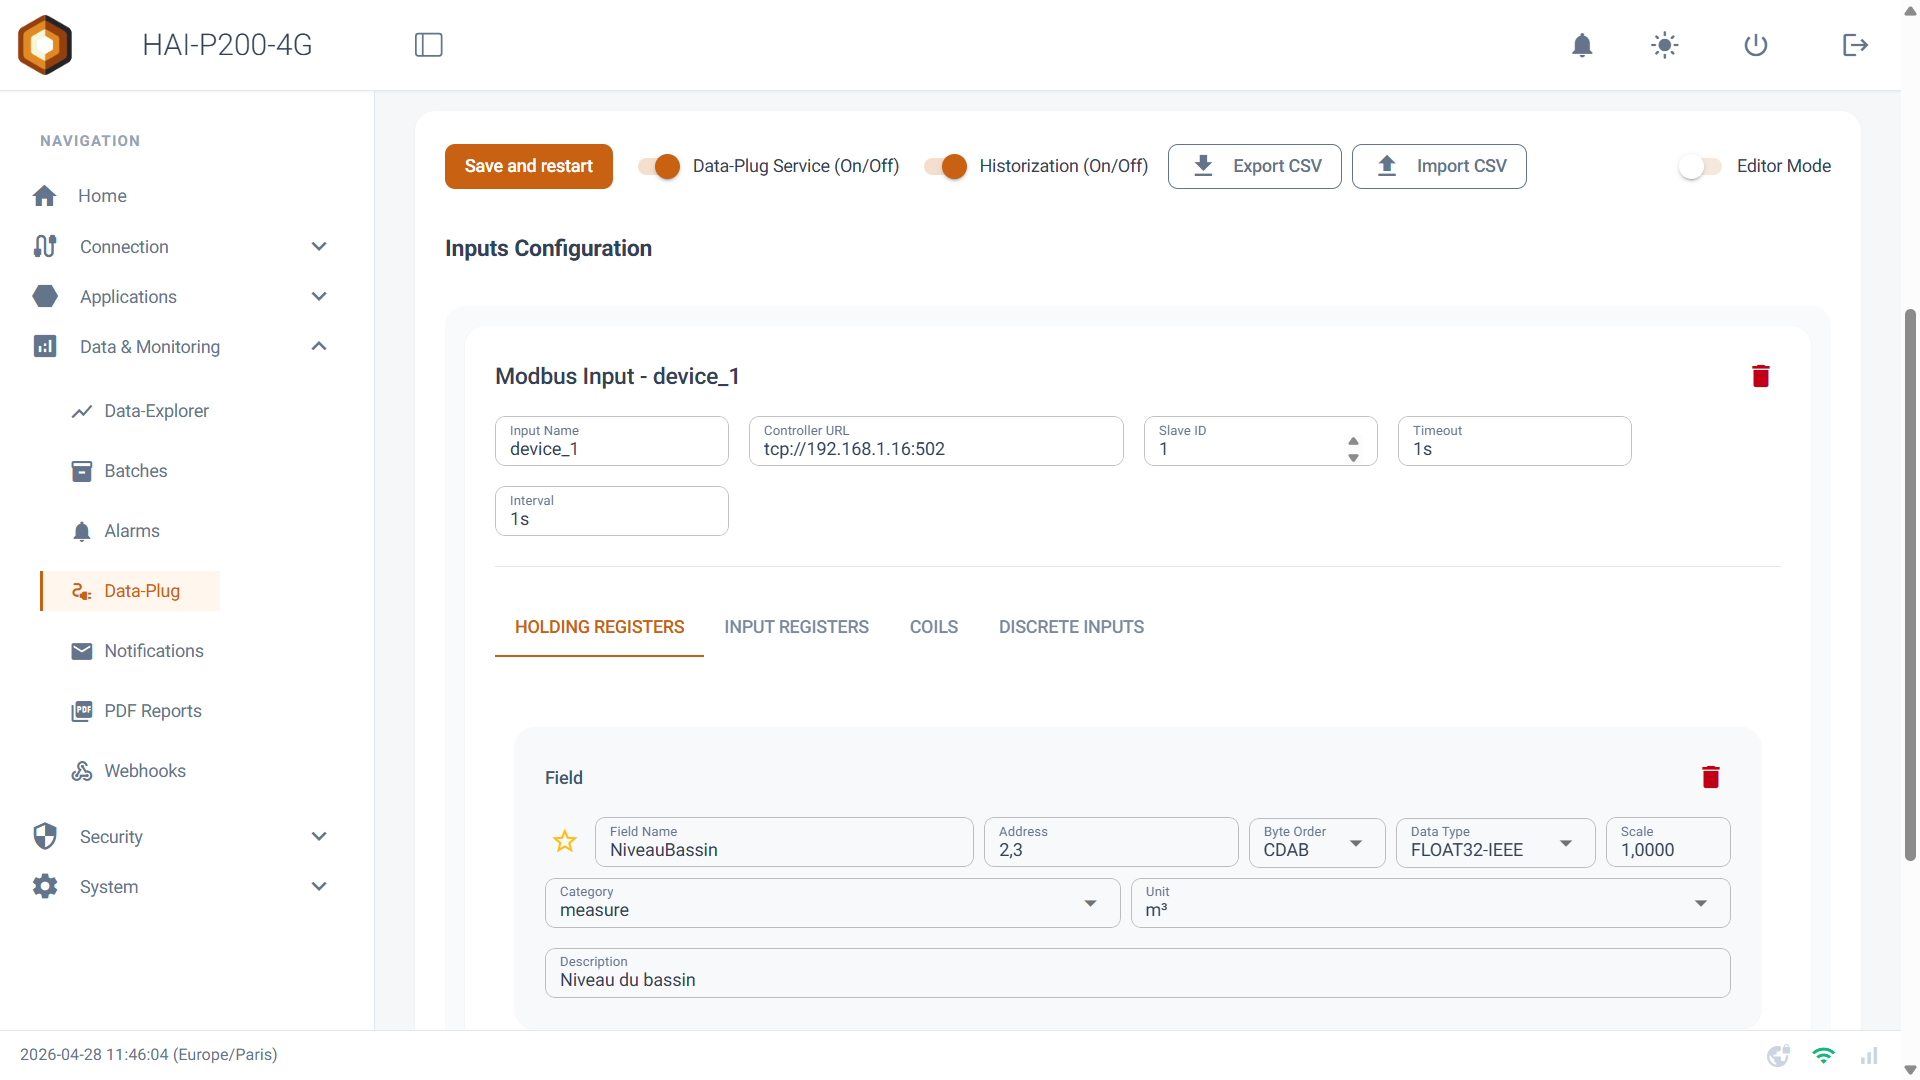
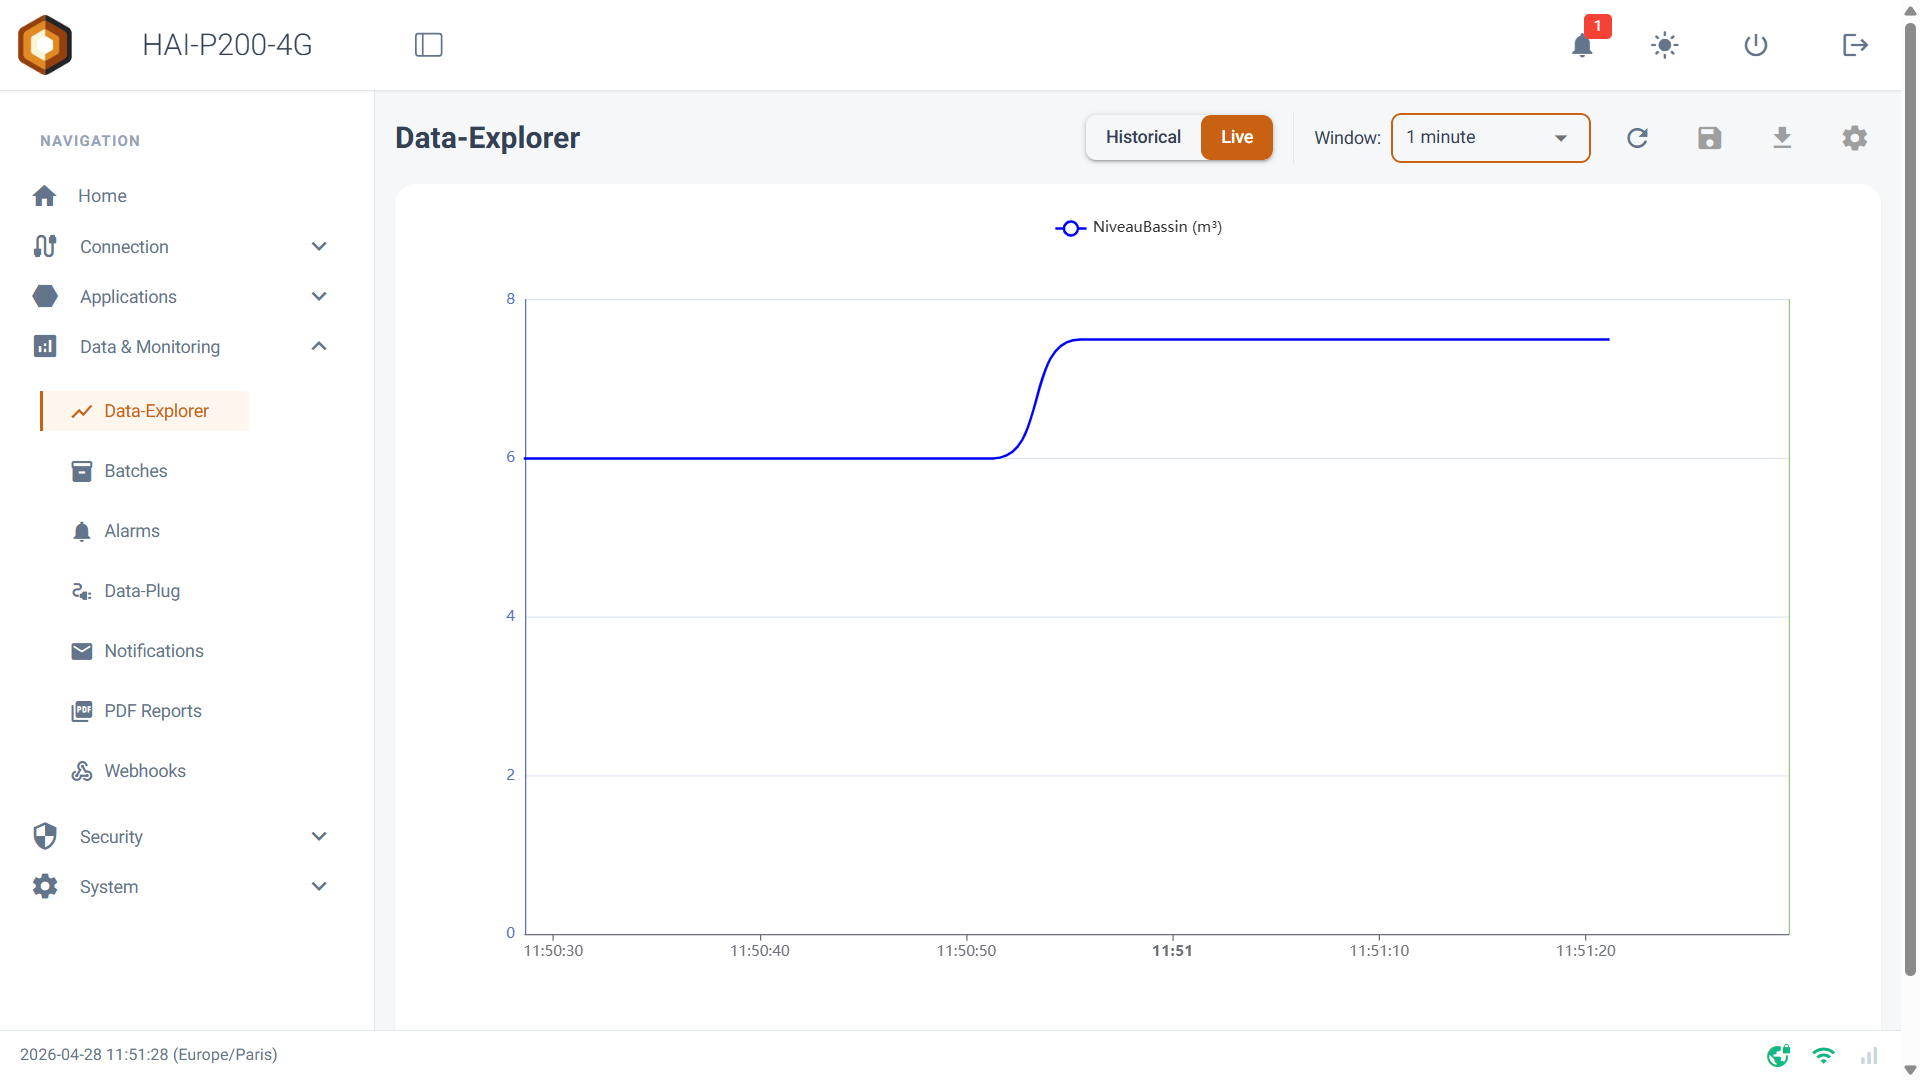
Completer le commit precedent, reste incomplet
Le commit 454eb33 ne portait que le renommage de la capture de connexion :
la commande d'ajout listait un fichier deja supprime, ce qui l'a fait
echouer en entier sans que je le remarque. Voici le contenu annonce.

Le guide de telemaintenance devient quick-start-remote-access et passe de
protocols/ vers getting-started/ : la telemaintenance est une mise en
route, pas un protocole d'acquisition. Description redigee, textes
alternatifs ecrits d'apres les captures, emojis decoratifs isoles retires,
l'astuce en :::tip et l'avertissement sur l'approbation du sous-reseau
Tailscale en :::caution — c'est le piege ou l'on perd une demi-heure.
Version anglaise ajoutee.

Les images du guide monitoring sont renumerotees pour combler le trou
laisse par la capture partie dans src/assets/.

Le script d'import verifie desormais l'existence de la page avant de
copier les images, au lieu de laisser des orphelines quand il refuse
d'ecrire.

Verifie apres build : 14 pages, 92 liens internes, aucun casse, et la
capture de connexion mutualisee entre les quatre pages.

diff --git a/src/content/docs/getting-started/quick-start-remote-access.md b/src/content/docs/getting-started/quick-start-remote-access.md
@@ -1,0 +1,90 @@
+---
+title: "Démarrage rapide pour la télémaintenance"
+description: Transformer un HAI-P200-4G en passerelle d'accès distant sécurisée — accès Internet, tunnel VPN Tailscale et prise en main de vos automates.
+sidebar:
+  order: 2
+---
+
+Bienvenue sur votre contrôleur **HAI-P200-4G** propulsé par **HAI-OS**. Ce guide a pour but de vous accompagner pas à pas pour transformer votre boîtier en une passerelle d'accès distant sécurisée (VPN). En quelques minutes, vous pourrez vous connecter à distance à vos équipements industriels (automates, IHM) comme si vous étiez sur place avec un câble.
+
+## Étape 1 : Première connexion
+
+Une fois votre contrôleur HAI-P200-4G raccordé à l'alimentation, vous devez vous y connecter.
+
+Par défaut, le port **Ethernet 1 (eth1)** du contrôleur, côté réseau machine, est préconfiguré avec l'adresse IP statique **192.168.1.16** et le masque de sous-réseau **255.255.255.0**.
+
+1.  Connectez votre PC de configuration directement au port **Ethernet 1** du contrôleur à l'aide d'un câble réseau _(assurez-vous que la carte réseau de votre PC est configurée sur le même sous-réseau, par exemple avec l'IP 192.168.1.5)_.
+
+2.  Ouvrez un navigateur web et saisissez l'adresse **https://192.168.1.16** dans la barre d'adresse.
+
+3.  Sur la page de connexion, entrez les identifiants par défaut :
+
+    - **Username** : admin
+
+    - **Password** : hai1@
+
+4.  Le boîtier ouvre un écran de configuration et vous demande de définir votre mot de passe administrateur.
+
+![Page de connexion de HAI-OS, avec les champs Username et Password et le bouton Log in](../../../assets/hai-os-login.png)
+
+## Étape 2 : Fournir un accès Internet au boîtier
+
+Pour que le contrôleur puisse établir le tunnel VPN vers l'extérieur, il a impérativement besoin d'une connexion à Internet.
+
+Dépliez le menu **Connection** dans la barre latérale gauche et choisissez votre moyen de communication vers l'extérieur :
+
+- **Ethernet (eth0)** : configurez ce port, côté usine ou entreprise, en mode DHCP ou avec une IP statique fournie par le service informatique.
+
+- **WiFi** : activez la radio WiFi, scannez les réseaux environnants et connectez-vous au point d'accès de l'usine.
+
+- **4G Modem** : si vous disposez d'une carte SIM, renseignez l'APN et le code PIN pour activer la liaison cellulaire indépendante.
+
+:::tip[Astuce]
+Le pied de page de l'interface affiche des icônes d'état en temps réel pour le WiFi, le modem 4G et le VPN. Si l'icône du réseau que vous avez configuré devient verte — ou orange pour la 4G — l'accès à Internet est opérationnel.
+:::
+
+## Étape 3 : Configuration du tunnel VPN (Tailscale)
+
+Maintenant que le boîtier a accès à Internet, nous allons le relier à votre réseau privé virtuel pour y accéder à distance.
+
+1.  Allez dans le menu **Connection > VPN Tailscale**.
+
+2.  Cochez la case **Activate Tailscale VPN**.
+
+3.  **Key** : renseignez la clé d'authentification générée depuis votre console d'administration Tailscale — elle commence généralement par `tskey-auth-` — puis cliquez sur **Apply**. Le statut passe à **Connected** et le champ _Key_ disparaît : le boîtier est enrôlé.
+
+4.  Le sélecteur **Mode** apparaît alors, positionné sur **Subnet Route**. C'est le mode à conserver pour la télémaintenance. _(L'autre mode, Port Forwarding, n'expose qu'un équipement sur un port précis ; voir l'article VPN Tailscale.)_
+
+5.  **Subnet Route Configuration** : saisissez le réseau de vos machines, celui du port **eth1**, que vous souhaitez rendre accessible à distance. Indiquez **l'adresse du réseau**, pas celle d'un équipement : si votre automate est en 192.168.1.50, saisissez `192.168.1.0/24`.
+
+6.  Cliquez de nouveau sur **Apply**. C'est ce second clic qui annonce la route.
+
+:::caution[Le réseau annoncé doit être approuvé côté Tailscale]
+Dans votre console d'administration, ouvrez la machine, section **Subnets**, cliquez **Edit**, cochez le réseau et enregistrez.
+
+Tant que l'approbation n'est pas faite, le boîtier affiche **Connected** mais aucun trafic ne passe vers vos machines.
+:::
+
+![Écran VPN Tailscale : statut Connected, case Activate Tailscale VPN cochée et route de sous-réseau 192.168.1.0/24](./quick-start-remote-access-1.png)
+
+Le statut passe à **Connected**, en vert. Le routeur du boîtier propage désormais les communications de votre réseau distant directement vers le réseau de votre machine.
+
+## Étape 4 : Prise en main de vos équipements
+
+La configuration côté machine est terminée. Désormais, depuis votre bureau ou en déplacement :
+
+1.  Assurez-vous que l'application client Tailscale est active sur votre PC de travail, et connectée au même compte.
+
+2.  Ouvrez votre logiciel de programmation habituel (TIA Portal, CODESYS, SoMachine…) ou un navigateur web.
+
+3.  Entrez **directement l'adresse IP locale** de votre automate ou IHM (ex. 192.168.1.50).
+
+La communication s'établit de manière transparente et chiffrée, de bout en bout.
+
+## Félicitations
+
+Votre contrôleur HAI-P200-4G est opérationnel et sécurisé. Pour aller plus loin, consultez les documentations dédiées pour :
+
+- **déclarer des règles de pare-feu** afin de limiter strictement qui peut communiquer avec la machine ;
+
+- **activer le partage de connexion** si votre automate a lui-même besoin d'accéder à Internet, pour se mettre à l'heure ou communiquer avec un service cloud.

diff --git a/src/content/docs/en/getting-started/quick-start-remote-access.md b/src/content/docs/en/getting-started/quick-start-remote-access.md
@@ -1,0 +1,90 @@
+---
+title: "Remote access quick start"
+description: Turn a HAI-P200-4G into a secure remote-access gateway — Internet uplink, Tailscale VPN tunnel and reaching your PLCs from anywhere.
+sidebar:
+  order: 2
+---
+
+Welcome to your **HAI-P200-4G** controller, powered by **HAI-OS**. This guide walks you through turning the gateway into a secure remote-access bridge (VPN). Within minutes you will be able to reach your industrial equipment — PLCs, HMIs — from anywhere, as if you were on site with a cable.
+
+## Step 1: First connection
+
+Once your HAI-P200-4G controller is connected to power, you need to reach it.
+
+By default, the controller's **Ethernet 1 (eth1)** port — the machine-network side — is preconfigured with the static IP address **192.168.1.16** and the subnet mask **255.255.255.0**.
+
+1.  Connect your configuration PC directly to the controller's **Ethernet 1** port with a network cable _(make sure your PC's network adapter is set to the same subnet — for example IP 192.168.1.5)_.
+
+2.  Open a web browser and enter the address **https://192.168.1.16**.
+
+3.  On the login page, enter the default credentials:
+
+    - **Username**: admin
+
+    - **Password**: hai1@
+
+4.  The gateway opens a configuration screen and asks you to set your administrator password.
+
+![HAI-OS login page, with the Username and Password fields and the Log in button](../../../../assets/hai-os-login.png)
+
+## Step 2: Giving the gateway Internet access
+
+To establish the outbound VPN tunnel, the controller needs an Internet connection.
+
+Expand the **Connection** menu in the left sidebar and pick how it reaches the outside world:
+
+- **Ethernet (eth0)**: configure this port — the plant or corporate side — in DHCP mode, or with a static IP provided by the IT department.
+
+- **WiFi**: turn on the WiFi radio, scan for nearby networks and connect to the plant access point.
+
+- **4G Modem**: if you have a SIM card, enter the APN and PIN code to bring up an independent cellular link.
+
+:::tip[Tip]
+The interface footer shows live status icons for WiFi, the 4G modem and the VPN. When the icon for the link you configured turns green — or orange for 4G — Internet access is up.
+:::
+
+## Step 3: Setting up the VPN tunnel (Tailscale)
+
+Now that the gateway has Internet access, let's attach it to your private network so you can reach it remotely.
+
+1.  Go to **Connection > VPN Tailscale**.
+
+2.  Tick the **Activate Tailscale VPN** checkbox.
+
+3.  **Key**: enter the authentication key generated from your Tailscale admin console — it usually starts with `tskey-auth-` — then click **Apply**. The status turns to **Connected** and the _Key_ field disappears: the gateway is enrolled.
+
+4.  The **Mode** selector then appears, set to **Subnet Route**. Keep that mode for remote maintenance. _(The other mode, Port Forwarding, exposes a single device on a specific port; see the Tailscale VPN article.)_
+
+5.  **Subnet Route Configuration**: enter the machine network — the one on the **eth1** port — that you want to make reachable remotely. Give **the network address**, not a device address: if your PLC is at 192.168.1.50, enter `192.168.1.0/24`.
+
+6.  Click **Apply** again. It is this second click that advertises the route.
+
+:::caution[The advertised subnet must be approved on the Tailscale side]
+In your admin console, open the machine, go to the **Subnets** section, click **Edit**, tick the network and save.
+
+Until that approval is done, the gateway reports **Connected** but no traffic reaches your machines.
+:::
+
+![Tailscale VPN screen: status Connected, Activate Tailscale VPN ticked and subnet route 192.168.1.0/24](../../getting-started/quick-start-remote-access-1.png)
+
+The status turns to **Connected**, in green. The gateway's router now forwards traffic from your remote network straight through to your machine network.
+
+## Step 4: Reaching your equipment
+
+The machine-side setup is done. From now on, from your desk or on the road:
+
+1.  Make sure the Tailscale client application is running on your work PC and signed in to the same account.
+
+2.  Open your usual programming software (TIA Portal, CODESYS, SoMachine…) or a web browser.
+
+3.  Enter your PLC or HMI's **local IP address directly** (e.g. 192.168.1.50).
+
+The connection is established transparently, and encrypted end to end.
+
+## Congratulations
+
+Your HAI-P200-4G controller is up and secured. To go further, see the dedicated documentation on how to:
+
+- **declare firewall rules** to strictly limit who may talk to the machine;
+
+- **enable connection sharing** if your PLC itself needs Internet access, to synchronise its clock or reach a cloud service.

diff --git a/src/content/docs/getting-started/quick-start-monitoring.md b/src/content/docs/getting-started/quick-start-monitoring.md
@@ -25,7 +25,7 @@ Par défaut, le port **Ethernet 1 (eth1)** du contrôleur est préconfiguré ave
 
 4.  Le boîtier ouvre un écran de configuration et vous demande de définir votre mot de passe administrateur.
 
-![Page de connexion de HAI-OS, avec les champs Username et Password et le bouton Log in](./quick-start-monitoring-1.png)
+![Page de connexion de HAI-OS, avec les champs Username et Password et le bouton Log in](../../../assets/hai-os-login.png)
 
 ## Étape 2 : Connectivité réseau
 
@@ -67,7 +67,7 @@ C'est le cœur du système. Nous allons lire une donnée depuis un automate ou u
 
 5.  Cliquez sur le bouton **Save and restart** en haut de la carte. Le moteur d'acquisition redémarre et commence immédiatement à enregistrer la donnée.
 
-![Écran Data-Plug : configuration d'une entrée Modbus device_1, avec la variable NiveauBassin en FLOAT32-IEEE, catégorie measure et unité m³](./quick-start-monitoring-2.png)
+![Écran Data-Plug : configuration d'une entrée Modbus device_1, avec la variable NiveauBassin en FLOAT32-IEEE, catégorie measure et unité m³](./quick-start-monitoring-1.png)
 
 ## Étape 4 : Visualisation (Data-Explorer)
 
@@ -81,7 +81,7 @@ Maintenant que la donnée est collectée, allons la regarder vivre.
 
 4.  Le graphique se met à jour en temps réel, au rythme de quelques secondes, et trace l'évolution de votre capteur.
 
-![Data-Explorer en mode Live : la courbe de NiveauBassin, en m³, sur une fenêtre d'une minute](./quick-start-monitoring-3.png)
+![Data-Explorer en mode Live : la courbe de NiveauBassin, en m³, sur une fenêtre d'une minute](./quick-start-monitoring-2.png)
 
 ## Félicitations
 

diff --git a/src/content/docs/en/getting-started/quick-start-monitoring.md b/src/content/docs/en/getting-started/quick-start-monitoring.md
@@ -25,7 +25,7 @@ By default, the controller's **Ethernet 1 (eth1)** port is preconfigured with th
 
 4.  The gateway opens a configuration screen and asks you to set your administrator password.
 
-![HAI-OS login page, with the Username and Password fields and the Log in button](../../getting-started/quick-start-monitoring-1.png)
+![HAI-OS login page, with the Username and Password fields and the Log in button](../../../../assets/hai-os-login.png)
 
 ## Step 2: Network connectivity
 
@@ -67,7 +67,7 @@ This is the heart of the system. We are going to read a value from a PLC or a se
 
 5.  Click **Save and restart** at the top of the card. The acquisition engine restarts and immediately begins recording the tag.
 
-![Data-Plug screen: a Modbus input named device_1, with the NiveauBassin tag as FLOAT32-IEEE, category measure and unit m³](../../getting-started/quick-start-monitoring-2.png)
+![Data-Plug screen: a Modbus input named device_1, with the NiveauBassin tag as FLOAT32-IEEE, category measure and unit m³](../../getting-started/quick-start-monitoring-1.png)
 
 ## Step 4: Visualisation (Data-Explorer)
 
@@ -81,7 +81,7 @@ Now that the data is being collected, let's watch it live.
 
 4.  The chart updates in real time, every few seconds, tracing your sensor's evolution.
 
-![Data-Explorer in Live mode: the NiveauBassin curve, in m³, over a one-minute window](../../getting-started/quick-start-monitoring-3.png)
+![Data-Explorer in Live mode: the NiveauBassin curve, in m³, over a one-minute window](../../getting-started/quick-start-monitoring-2.png)
 
 ## Congratulations
 
